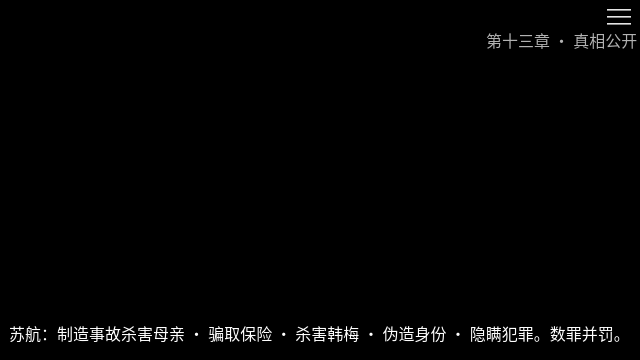
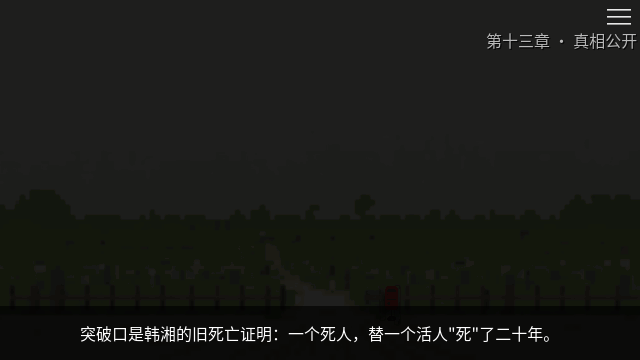
[反馈] Citrate#55 + 填充：墓园出生点移到底部入口；bg_graveyard_area_A 垫黑场
- #55 RPGExplo 出生点 (480,300)→(480,630)：界面下端·墓园入口（主连通区，可走到碑前）
- 无背景的第十/十三章黑场文字卡垫 bg_graveyard_area_A（Plate + Black(0.86)）
- 美术需求 v3 §四同步：该图已投入填充
- 集成测试 87/87

diff --git a/src/Dev/RPGExplo.cs b/src/Dev/RPGExplo.cs
@@ -24,7 +24,7 @@ public partial class RPGExplo : Node2D
     // 项目的 1280×720——运行期不改窗口大小（失焦 bug 的根因，见 Boot 同款注释）。
     static readonly Vector2 View = new(960, 540);
     const float Speed = 70f;               // 地图像素/秒
-    static readonly Vector2 Spawn = new(480, 300);      // 中央十字路
+    static readonly Vector2 Spawn = new(480, 630);      // 界面下端·墓园入口（Citrate#55：从入口进园）
     static readonly Vector2 Goal = new(295, 62);        // A 区 7 号：左上围栏里那排碑的高碑（当初抠 stele_bg 的同源）
     static readonly Vector2 GoalStand = new(240, 101);  // 碑前最近的路点（围栏外的横向小径）
 

diff --git a/src/Game/Ch10.cs b/src/Game/Ch10.cs
@@ -7,7 +7,9 @@ public partial class Ch10 : StorySceneBase
 {
     protected override void SceneReady()
     {
-        Black();
+        // 没有真背景的黑场文字卡：垫一张墓园 A 区定景压暗当底（美术素材复用，别空着）
+        Plate("bg_graveyard_area_A");
+        Black(0.86f);
         Subs(() =>
         {
             // ★ Natsume#9：这一章原来没落 ch10_done，导致 NextContent() 永远判定"还没过第十章"

diff --git a/src/Game/Ch13.cs b/src/Game/Ch13.cs
@@ -8,7 +8,9 @@ public partial class Ch13 : StorySceneBase
 {
     protected override void SceneReady()
     {
-        Black();
+        // 同上：真结局文字卡也垫墓园 A 区定景（压暗），不空黑
+        Plate("bg_graveyard_area_A");
+        Black(0.86f);
         var s = RunState.Load();
         if (!s.TrueEndingReady)   // 兜底路由：条件不齐不该走到这
         {

diff --git a/doc/Bugs反馈_Citrate657.md b/doc/Bugs反馈_Citrate657.md
@@ -124,3 +124,6 @@ else if (_traceHold)
    > **程序回复**：那是各章结尾的过渡字幕（二/三/四/五章 `Go()` 的第二行 + 一章的提示）。墓园改成俯视走位后，"回墓道"确实指不明白。已把所有 `（回墓道。）` 换成中性的 **`（继续。）`**（一章提示也改成"按 Enter 继续"）。
 54. ✅【已修复】第十二章，和指引不符，凿的操作不仅仅是Enter可以实现。
    > **程序回复**：凿用的是 `ui_accept`，它同时绑了 **Enter 和 空格**（全篇推进对白也是这个约定），所以空格也能凿，跟 HUD 只写"Enter"对不上。已把 HUD 改成 **`Enter / 空格：凿`**，和实际输入一致。
+55. 墓园地图，出生点改成界面下端墓园入口。
+   > **程序回复**：已把墓园走位的出生点从"中央十字路"改到**底部墓园入口**（`RPGExplo.Spawn` → `(480, 630)`，那条横贯底部的土路）。验过它是主连通区（能一路走到 A 区 7 号碑前），进园后往上走即可。
+   > 顺带按你说的：把已交付但空置的 `bg_graveyard_area_A` 拿去给**没有背景的黑场文字卡（第十/十三章）垫底**（压暗 86%），不再空黑。

diff --git a/doc/美术需求.md b/doc/美术需求.md
@@ -77,9 +77,9 @@
 
 ## 四、复用与"填充"
 
-- **`bg_graveyard_area_A.png`**：已交付，但目前**没有固定场景挂它**（墓园改走俯视 RPG、
-  一章是满屏程序化碑面）。**后续任何"没有背景"的画面，可直接拿它当填充/垫底**
-  （同一墓地族、冷灰，配雾/压暗即可融进不同气氛）。不必再等新图。
+- **`bg_graveyard_area_A.png`**：已交付，并已投入当作**"没有背景"画面的填充/垫底**——
+  第十/十三两章的黑场文字卡现在垫它（`Plate` + `Black(0.86)` 压暗）。后续其它空背景画面
+  也可直接拿它填（同一墓地族、冷灰，配雾/压暗即可融进不同气氛）。不必再等新图。
 - **`bg_cemetery_qingming.png`**：第十二章清明定景已在用，其余需要"同一墓地·不同天气"的场景可改色复用。
 - 俯视整图**只作关卡本体与取色**，不整张铺平视背景（见 §六）。
 
